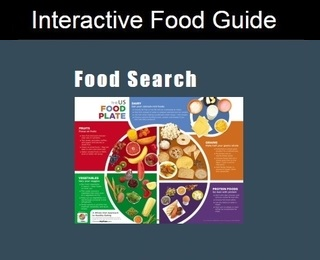
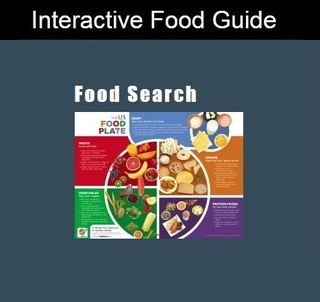
modify modals and food image

Changed region(s): [[0.2188, 0.3692, 0.7812, 0.8615], [0.0, 0.0308, 1.0, 0.1538], [0.2188, 0.2462, 0.625, 0.3385]]

diff --git a/index.html b/index.html
@@ -132,9 +132,7 @@
 
 	</div>
 
-
-
-	<!-- Modal 1-->
+  <!-- Modal 1-->
 <div class="modal fade" id="project1" tabindex="-1" role="dialog" aria-labelledby="myModalLabel" aria-hidden="true">
   <div class="modal-dialog">
     <div class="modal-content">
@@ -160,12 +158,12 @@
   <div class="modal-dialog">
     <div class="modal-content">
       <div class="modal-header">
-        <h4 class="modal-title" id="myModalLabel2">Drag and Drop App</h4>
+        <h4 class="modal-title" id="myModalLabel2">Food Guide App</h4>
       </div>
       <div class="modal-body">
-        <img class="img-responsive" src="img/drag-and-drop2.jpg" alt="Drag and Drop image">
+        <img class="img-responsive" src="img/food-guide-large.jpg" alt="Drag and Drop image" srcset="img/food-guide-medium.jpg 320w, img/drag-and-drop2-medium.jpg 640w, img/food-guide-large.jpg 1024w" sizes="(min-width: 300px) 50vw, (min-width: 700px) 70vw, 100vw">
         <br>
-        This app is designed to test the difference between manufactured goods and raw materials through a drag and drop game.The user must place the different objects in their correct category.
+         This app is designed to keep track of your meals. It keeps track of the calories per meal and the total calories. It also allows you to organize your meals by breakfast, lunch, dinner or snack.
       </div>
       <div class="modal-footer">
         <button type="button" class="btn btn-default" data-dismiss="modal">Close</button>
@@ -205,7 +203,7 @@
       <div class="modal-body">
 
         <br>
-        This project centers around optimizing a website for performance and speed. I utilized Google's pagespeed insights in order to pinpoint areas for performance optimization. I then used the necessary tools and techniques in order to optimize the website.
+        This project centers around optimizing a website for performance and speed. I utilized Google&apos;s pagespeed insights in order to pinpoint areas for performance optimization. I then used the necessary tools and techniques in order to optimize the website.
       </div>
       <div class="modal-footer">
         <button type="button" class="btn btn-default" data-dismiss="modal">Close</button>
@@ -215,7 +213,7 @@
 </div>
 
 
-	<!-- Modal 5-->
+  <!-- Modal 5-->
 <div class="modal fade" id="project5" tabindex="-1" role="dialog" aria-labelledby="myModalLabel" aria-hidden="true">
   <div class="modal-dialog">
     <div class="modal-content">
@@ -225,7 +223,7 @@
       <div class="modal-body">
 
         <br>
-        This is an app designed to search and filter restaurants in the Broomfield-Colorado area and provide detailed information about the restaurants. It utilizes api's to pull in the map and restaurant info and the javascript framework of knockout.js to accomplish tasks such as filtering the restaurants and creating the markers.
+        This is an app designed to search and filter restaurants in the Broomfield-Colorado area and provide detailed information about the restaurants. It utilizes api&apos;s to pull in the map and restaurant info and the javascript framework of knockout.js to accomplish tasks such as filtering the restaurants and creating the markers.
       </div>
       <div class="modal-footer">
         <button type="button" class="btn btn-default" data-dismiss="modal">Close</button>
@@ -256,7 +254,7 @@
 
 
 
-	<!-- Modal 7-->
+  <!-- Modal 7-->
 <div class="modal fade" id="project7" tabindex="-1" role="dialog" aria-labelledby="myModalLabel" aria-hidden="true">
   <div class="modal-dialog">
     <div class="modal-content">
